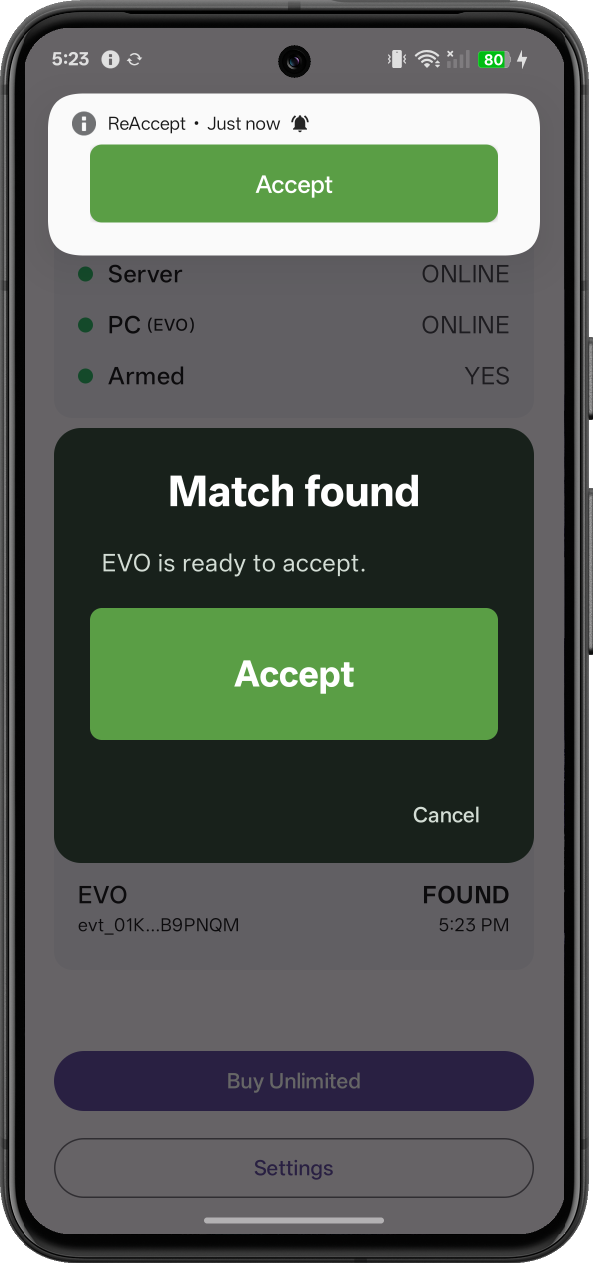
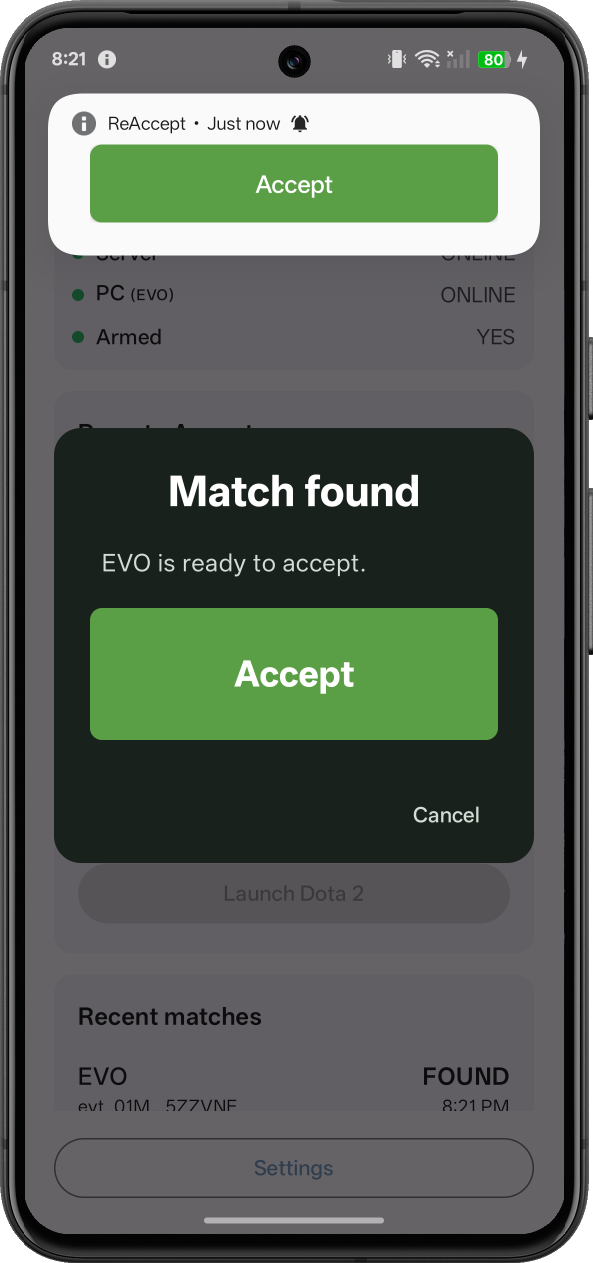
content: soften automation wording, add trust section, refresh screenshots
Google Search Console flagged the site under "Deceptive pages" (Safe
Browsing). Two phrases most likely triggered it, paired with the direct
.exe download link: "Runs quietly in the background" and "Your PC
clicks the match for you" read like a silent auto-clicker/RAT
description to automated content scanners.

- "Runs quietly in the background..." -> "Stays ready while you
  queue..." (dropped "quietly" and "background").
- "Your PC clicks the match for you." -> explicit, user-driven framing:
  "ReAccept securely relays that action to the desktop app on your own
  PC, which completes the ready check."
- Hero/meta/OG/Twitter/JSON-LD description: "from your Companion" ->
  "securely relayed to your own paired PC" (same reassurance in every
  search/social preview, not just on-page).
- Privacy section expanded into "Privacy & trust": explicitly states no
  general remote desktop access, no file access, no memory reading, no
  gameplay automation - consolidates claims that were previously only
  in the FAQ.
- Refreshed app-settings.png, app-info.png, app-match-found.png to
  reflect the new Android button color/theme; bumped shared asset rev
  to 20260820-1.

diff --git a/index.html b/index.html
@@ -4,7 +4,7 @@
   <meta charset="UTF-8">
   <meta name="viewport" content="width=device-width, initial-scale=1">
   <title>ReAccept — Remote match companion for Dota 2</title>
-  <meta name="description" content="Get notified and accept found matches, respond to party invites, and launch Dota 2 remotely — from your Companion.">
+  <meta name="description" content="Get notified and accept found matches, respond to party invites, and launch Dota 2 remotely — securely relayed to your own paired PC.">
   <link rel="canonical" href="https://re-accept.com/">
 
   <!-- Pre-launch: keep this page out of search results until billing is live.
@@ -14,16 +14,16 @@
   <!-- Open Graph / Twitter card -->
   <meta property="og:type" content="website">
   <meta property="og:title" content="ReAccept — Remote match companion for Dota 2">
-  <meta property="og:description" content="Get notified and accept found matches, respond to party invites, and launch Dota 2 remotely — from your Companion.">
+  <meta property="og:description" content="Get notified and accept found matches, respond to party invites, and launch Dota 2 remotely — securely relayed to your own paired PC.">
   <meta property="og:url" content="https://re-accept.com/">
-  <meta property="og:image" content="https://re-accept.com/assets/screenshots/en/og-cover.png?rev=20260819-1">
+  <meta property="og:image" content="https://re-accept.com/assets/screenshots/en/og-cover.png?rev=20260820-1">
   <meta name="twitter:card" content="summary_large_image">
   <meta name="twitter:title" content="ReAccept — Remote match companion for Dota 2">
-  <meta name="twitter:description" content="Get notified and accept found matches, respond to party invites, and launch Dota 2 remotely — from your Companion.">
-  <meta name="twitter:image" content="https://re-accept.com/assets/screenshots/en/og-cover.png?rev=20260819-1">
+  <meta name="twitter:description" content="Get notified and accept found matches, respond to party invites, and launch Dota 2 remotely — securely relayed to your own paired PC.">
+  <meta name="twitter:image" content="https://re-accept.com/assets/screenshots/en/og-cover.png?rev=20260820-1">
 
-  <link rel="icon" href="assets/icon.png?rev=20260819-1">
-  <link rel="stylesheet" href="styles.css?rev=20260819-1">
+  <link rel="icon" href="assets/icon.png?rev=20260820-1">
+  <link rel="stylesheet" href="styles.css?rev=20260820-1">
 
   <script type="application/ld+json">
   {
@@ -33,7 +33,7 @@
     "applicationCategory": "UtilitiesApplication",
     "operatingSystem": "Windows, Android",
     "url": "https://re-accept.com/",
-    "description": "Get notified and accept found matches, respond to party invites, and launch Dota 2 remotely — from your Companion.",
+    "description": "Get notified and accept found matches, respond to party invites, and launch Dota 2 remotely — securely relayed to your own paired PC.",
     "offers": {
       "@type": "Offer",
       "price": "0",
@@ -48,7 +48,7 @@
   <header class="hero">
     <nav class="nav">
       <div class="brand">
-        <img src="assets/icon.png?rev=20260819-1" alt="" class="brand-icon">
+        <img src="assets/icon.png?rev=20260820-1" alt="" class="brand-icon">
         ReAccept
       </div>
       <div class="nav-links">
@@ -64,7 +64,7 @@
         <h1>ReAccept</h1>
         <p class="hero-tagline">Remote match companion for Dota 2</p>
         <p class="subhead">Get notified and accept found matches, respond to party invites, and
-          launch Dota 2 remotely — from your Companion.</p>
+          launch Dota 2 remotely — securely relayed to your own paired PC.</p>
         <div class="cta-row">
           <a class="btn btn-primary" href="#download-windows">Download for Windows</a>
           <a class="btn btn-secondary" href="#download-android">Get the Android app</a>
@@ -74,7 +74,7 @@
           anything — see <a href="#faq">FAQ</a>.</p>
       </div>
       <div class="hero-shot">
-        <img src="assets/screenshots/en/app-match-found.png?rev=20260819-1"
+        <img src="assets/screenshots/en/app-match-found.png?rev=20260820-1"
              alt="ReAccept phone notification for a match found, with an Accept button"
              loading="lazy">
       </div>
@@ -90,9 +90,9 @@
           <span class="step-num">1</span>
           <div>
             <h3>Install the desktop agent</h3>
-            <p>Runs quietly in the background while you queue. No border, no overlay, no interference
-              with DX11 or Vulkan.</p>
-            <img class="step-shot step-shot-wide" src="assets/screenshots/en/desk-main.png?rev=20260819-1"
+            <p>Stays ready while you queue — no border, no overlay, no interference with DX11
+              or Vulkan.</p>
+            <img class="step-shot step-shot-wide" src="assets/screenshots/en/desk-main.png?rev=20260820-1"
                  alt="ReAccept desktop app showing server connected and Dota 2 detected">
           </div>
         </li>
@@ -102,7 +102,7 @@
             <h3>Pair your Companion</h3>
             <p>Scan a QR code from the ReAccept app once, or open the Telegram link shown in the
               same spot on the desktop.</p>
-            <img class="step-shot step-pair-wide" src="assets/screenshots/en/desk-qr.png?rev=20260819-1"
+            <img class="step-shot step-pair-wide" src="assets/screenshots/en/desk-qr.png?rev=20260820-1"
                  alt="One-time pairing QR code shown by the ReAccept desktop app">
           </div>
         </li>
@@ -111,9 +111,9 @@
           <div>
             <h3>Get notified</h3>
             <p>A ready check appears — your phone buzzes with a push notification immediately.</p>
-            <img class="step-shot" src="assets/screenshots/en/app-notification.png?rev=20260819-1"
+            <img class="step-shot" src="assets/screenshots/en/app-notification.png?rev=20260820-1"
                  alt="Phone notification showing a Dota match found, with a large Accept action">
-            <img class="step-shot" src="assets/screenshots/en/app-party-notification.png?rev=20260819-1"
+            <img class="step-shot" src="assets/screenshots/en/app-party-notification.png?rev=20260820-1"
                  alt="Phone notification showing a party invite, with Accept and Decline actions">
           </div>
         </li>
@@ -121,8 +121,9 @@
           <span class="step-num">4</span>
           <div>
             <h3>Accept from anywhere</h3>
-            <p>Tap Accept in the notification or the app. Your PC clicks the match for you.</p>
-            <img class="step-shot" src="assets/screenshots/en/app-match-found.png?rev=20260819-1"
+            <p>Tap Accept in the notification or the app. ReAccept securely relays that action
+              to the desktop app on your own PC, which completes the ready check.</p>
+            <img class="step-shot" src="assets/screenshots/en/app-match-found.png?rev=20260820-1"
                  alt="ReAccept phone screen with the Match found dialog and Accept button">
           </div>
         </li>
@@ -142,19 +143,19 @@
         optional.</p>
       <div class="callout-sequence">
         <figure>
-          <img src="assets/screenshots/en/app-settings.png?rev=20260819-1"
+          <img src="assets/screenshots/en/app-settings.png?rev=20260820-1"
                alt="ReAccept in-app Settings screen with a Request unrestricted battery use button"
                loading="lazy">
           <figcaption>1. In ReAccept → Settings, request unrestricted battery use</figcaption>
         </figure>
         <figure>
-          <img src="assets/screenshots/en/app-info.png?rev=20260819-1"
+          <img src="assets/screenshots/en/app-info.png?rev=20260820-1"
                alt="Android App info screen for ReAccept with Battery usage highlighted"
                loading="lazy">
           <figcaption>2. Open App info → Battery usage</figcaption>
         </figure>
         <figure>
-          <img src="assets/screenshots/en/app-allow-bg-activity.png?rev=20260819-1"
+          <img src="assets/screenshots/en/app-allow-bg-activity.png?rev=20260820-1"
                alt="Android Battery usage screen with Allow background activity enabled"
                loading="lazy">
           <figcaption>3. Turn on "Allow background activity"</figcaption>
@@ -200,10 +201,14 @@
     </section>
 
     <section id="privacy" class="section">
-      <h2>Privacy</h2>
-      <p>ReAccept only looks at your Dota 2 window to detect the ready-check screen. It doesn't read
-        your screen otherwise, doesn't collect gameplay data, and doesn't share data with third
-        parties. Full details in the <a href="privacy.html">Privacy Policy</a>.</p>
+      <h2>Privacy &amp; trust</h2>
+      <p>Designed for your own devices. ReAccept only controls the desktop app you explicitly
+        pair using a one-time QR code or Telegram link — it does not provide general remote
+        desktop access, does not read files on your PC, and does not read game memory or perform
+        gameplay automation.</p>
+      <p>It only looks at your own Dota 2 window to detect the ready-check screen. It doesn't
+        read your screen otherwise, doesn't collect gameplay data, and doesn't share data with
+        third parties. Full details in the <a href="privacy.html">Privacy Policy</a>.</p>
     </section>
 
     <section id="faq" class="section">
@@ -277,7 +282,7 @@
           <h3>Android</h3>
           <p class="download-copy-desktop">Scan the QR code, or download the APK directly.</p>
           <p class="download-copy-mobile">Download the APK directly to your phone.</p>
-          <img class="qr" src="assets/screenshots/en/android-qr-placeholder.png?rev=20260819-1"
+          <img class="qr" src="assets/screenshots/en/android-qr-placeholder.png?rev=20260820-1"
                alt="QR code to download the ReAccept Android app" loading="lazy">
           <a class="btn btn-secondary" href="https://github.com/enyded/dota_ready/releases/latest/download/ReAccept.apk">
             Download APK
